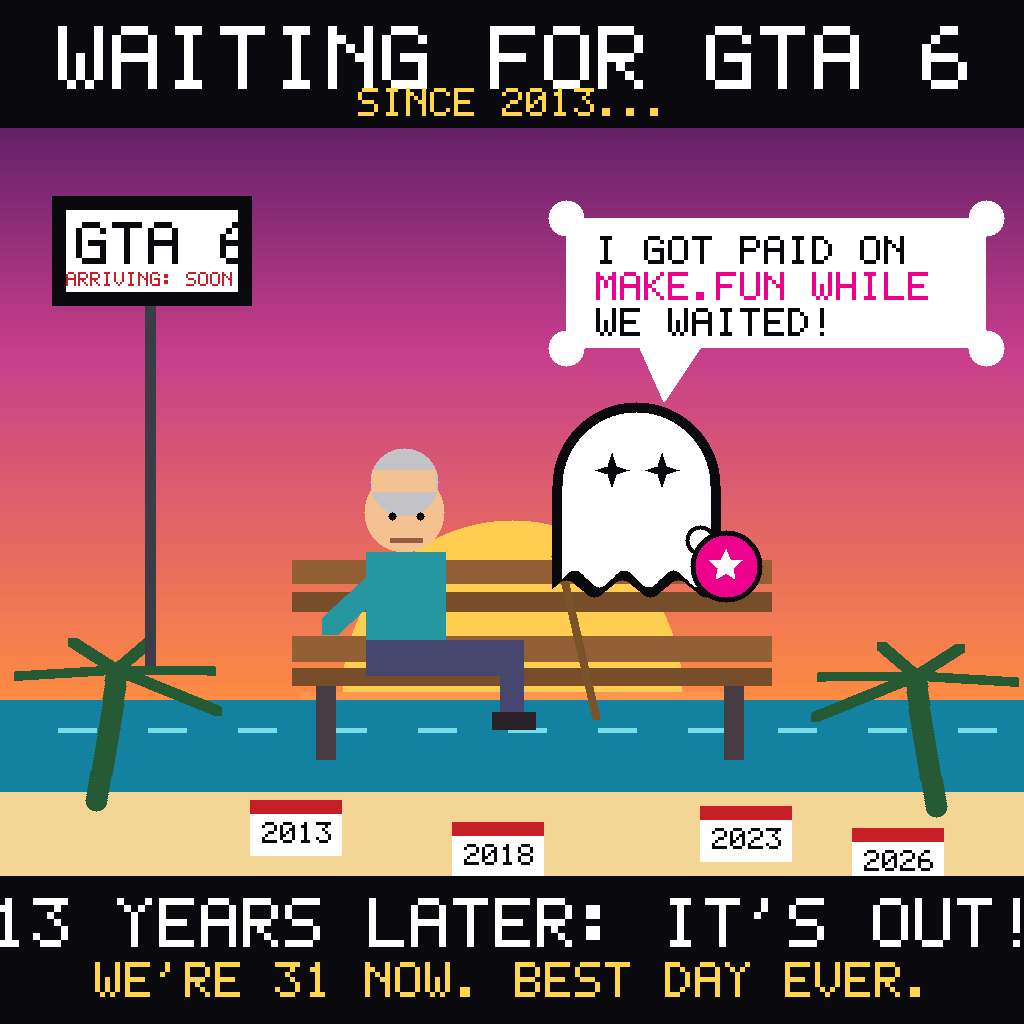
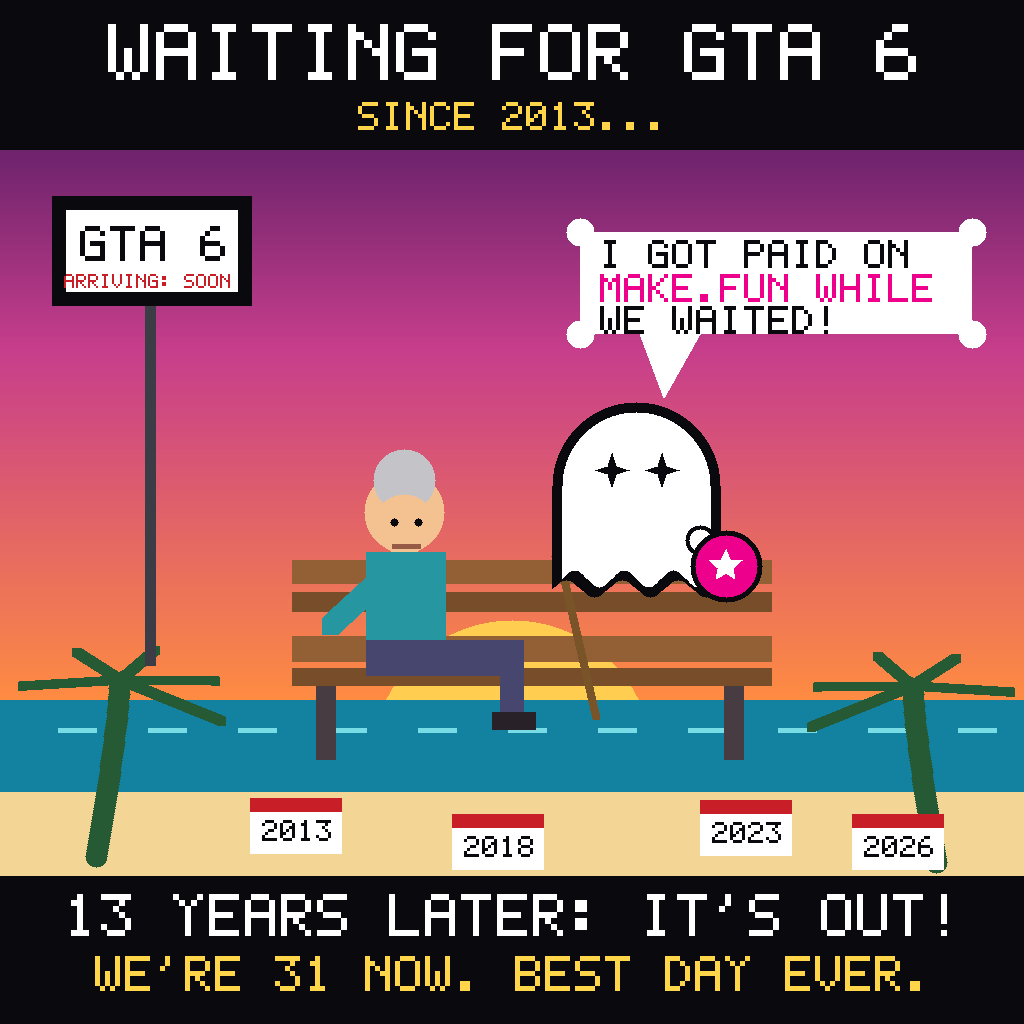
Fix meme layout: unclipped captions, sign text fits, face/sun/bubble polish

diff --git a/make_meme.py b/make_meme.py
@@ -190,10 +190,10 @@ for y in range(0, 700):
         c = tuple(int(mid[i] + (low[i] - mid[i]) * t) for i in range(3))
     rect(0, y, W, y + 1, c)
 
-# retro sun with stripe cuts
-circle(512, 690, 170, (255, 205, 80))
-for i, sy in enumerate((640, 668, 692)):
-    rect(300, sy, 724, sy + 6 + i * 3, (255, 150, 80))
+# retro sun, low on the horizon behind the bench
+circle(512, 760, 140, (255, 205, 80))
+for i, sy in enumerate((716, 738, 756)):
+    rect(372, sy, 652, sy + 5 + i * 2, (255, 150, 80))
 
 # sea and sand
 rect(0, 700, W, 792, (18, 130, 160))
@@ -203,18 +203,18 @@ rect(0, 792, W, 876, (243, 214, 150))
 
 # palm trees, left and right silhouettes
 def palm(bx, by, flip=1):
-    for s in range(0, 130, 6):
-        x = bx + flip * int(22 * math.sin(s / 130 * 1.2))
+    for s in range(0, 176, 6):
+        x = bx + flip * int(26 * math.sin(s / 176 * 1.2))
         circle(x, by - s, 11, (38, 90, 52))
-    tx = bx + flip * int(22 * math.sin(1.2))
-    ty = by - 130
+    tx = bx + flip * int(26 * math.sin(1.2))
+    ty = by - 176
     for ang in (-160, -115, -70, -25, 15):
         a = math.radians(ang if flip > 0 else 180 - ang)
         line(tx, ty, tx + int(105 * math.cos(a)), ty + int(60 * math.sin(a)) + 26,
              (38, 90, 52), 9)
 
-palm(96, 800, 1)
-palm(936, 806, -1)
+palm(96, 856, 1)
+palm(936, 862, -1)
 
 # the bus stop sign that has said SOON for thirteen years
 line(150, 300, 150, 660, (60, 60, 70), 10)
@@ -223,8 +223,8 @@ rect(52, 196, 252, 210, BLACK)
 rect(52, 292, 252, 306, BLACK)
 rect(52, 196, 66, 306, BLACK)
 rect(238, 196, 252, 306, BLACK)
-draw_text(76, 222, "GTA 6", 6, BLACK)
-draw_text(66, 272, "ARRIVING: SOON", 2, (200, 30, 40))
+draw_text(80, 226, "GTA 6", 5, BLACK)
+draw_text(64, 274, "ARRIVING: SOON", 2, (200, 30, 40))
 
 # bench
 rect(292, 636, 772, 662, (146, 96, 52))
@@ -236,11 +236,11 @@ rect(292, 592, 772, 612, (120, 78, 42))
 
 # the patient fan: grey hair now, cane leaning by his knee
 circle(404, 512, 40, (243, 194, 144))
-circle(404, 482, 34, (196, 196, 200))          # grey hair on top
-rect(372, 470, 436, 492, (243, 194, 144))      # keep the face clear
-circle(392, 516, 4, BLACK)
-circle(420, 516, 4, BLACK)
-line(392, 540, 420, 540, (150, 90, 70), 4)     # flat, patient mouth
+circle(404, 480, 31, (196, 196, 200))          # grey hair on top
+circle(404, 524, 30, (243, 194, 144))          # face below the hairline
+circle(394, 522, 4, BLACK)
+circle(418, 522, 4, BLACK)
+line(394, 546, 418, 546, (150, 90, 70), 4)     # flat, patient mouth
 rect(366, 552, 446, 640, (38, 150, 160))       # shirt
 line(380, 580, 330, 626, (38, 150, 160), 16)   # arm resting down
 rect(366, 640, 520, 676, (70, 70, 110))        # trousers, seated
@@ -250,8 +250,8 @@ line(560, 560, 596, 716, (120, 84, 40), 7)     # the cane
 circle(560, 556, 9, (120, 84, 40))
 
 # scattered calendar pages of the wait
-for (cx0, cy0, yr) in ((250, 800, "2013"), (452, 822, "2018"),
-                       (700, 806, "2023"), (852, 828, "2026")):
+for (cx0, cy0, yr) in ((250, 798, "2013"), (452, 814, "2018"),
+                       (700, 800, "2023"), (852, 814, "2026")):
     rect(cx0, cy0, cx0 + 92, cy0 + 56, WHITE)
     rect(cx0, cy0, cx0 + 92, cy0 + 14, (200, 30, 40))
     draw_text(cx0 + 12, cy0 + 22, yr, 3, BLACK)
@@ -281,23 +281,23 @@ circle(726, 566, 31, MAGENTA)
 star(726, 566, 17, WHITE)                      # white star on the coin
 
 # speech bubble from the ghost
-rect(566, 218, 986, 348, WHITE)
-circle(566, 218, 18, WHITE)
-circle(986, 218, 18, WHITE)
-circle(566, 348, 18, WHITE)
-circle(986, 348, 18, WHITE)
-poly([(640, 348), (700, 348), (664, 402)], WHITE)
-draw_text(596, 236, "I GOT PAID ON", 4, BLACK)
-draw_text(596, 272, "MAKE.FUN WHILE", 4, MAGENTA)
-draw_text(596, 308, "WE WAITED!", 4, BLACK)
+rect(580, 232, 972, 334, WHITE)
+circle(580, 232, 14, WHITE)
+circle(972, 232, 14, WHITE)
+circle(580, 334, 14, WHITE)
+circle(972, 334, 14, WHITE)
+poly([(640, 334), (700, 334), (664, 398)], WHITE)
+draw_text(600, 240, "I GOT PAID ON", 4, BLACK)
+draw_text(600, 274, "MAKE.FUN WHILE", 4, MAGENTA)
+draw_text(600, 306, "WE WAITED!", 4, BLACK)
 
 # caption bars
-rect(0, 0, W, 128, BLACK)
-text_center(26, "WAITING FOR GTA 6", 9, WHITE)
-text_center(88, "SINCE 2013...", 4, YELLOW)
+rect(0, 0, W, 150, BLACK)
+text_center(24, "WAITING FOR GTA 6", 8, WHITE)
+text_center(102, "SINCE 2013...", 4, YELLOW)
 rect(0, 876, W, H, BLACK)
-text_center(898, "13 YEARS LATER: IT'S OUT!", 7, WHITE)
-text_center(962, "WE'RE 31 NOW. BEST DAY EVER.", 5, YELLOW)
+text_center(894, "13 YEARS LATER: IT'S OUT!", 6, WHITE)
+text_center(956, "WE'RE 31 NOW. BEST DAY EVER.", 5, YELLOW)
 
 # ---------------------------------------------------------------- png out
 
